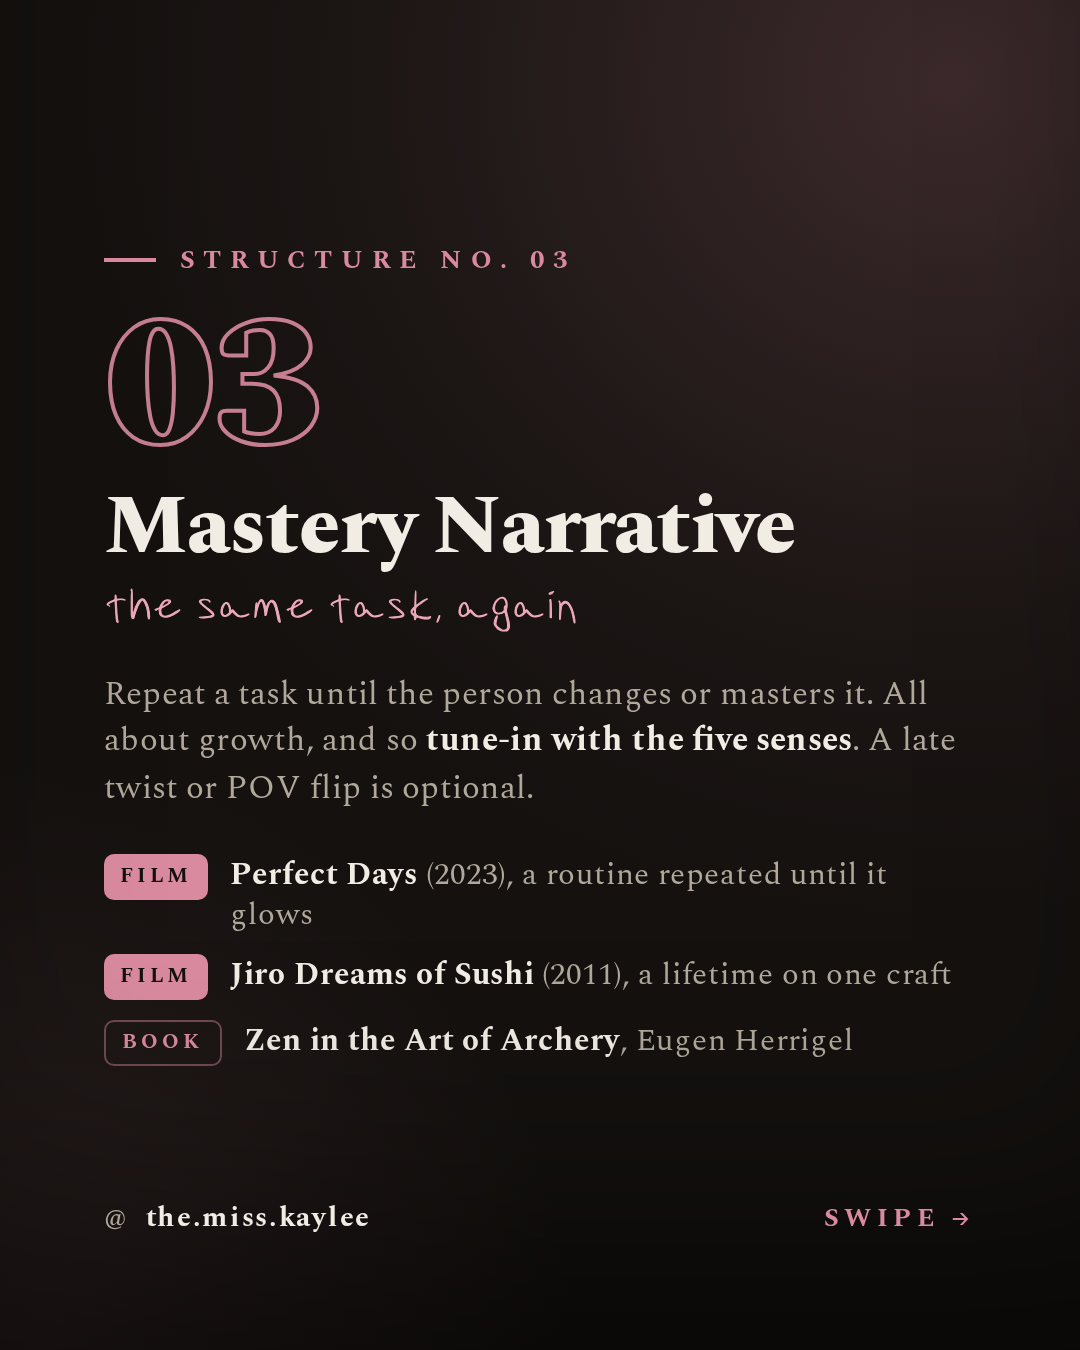
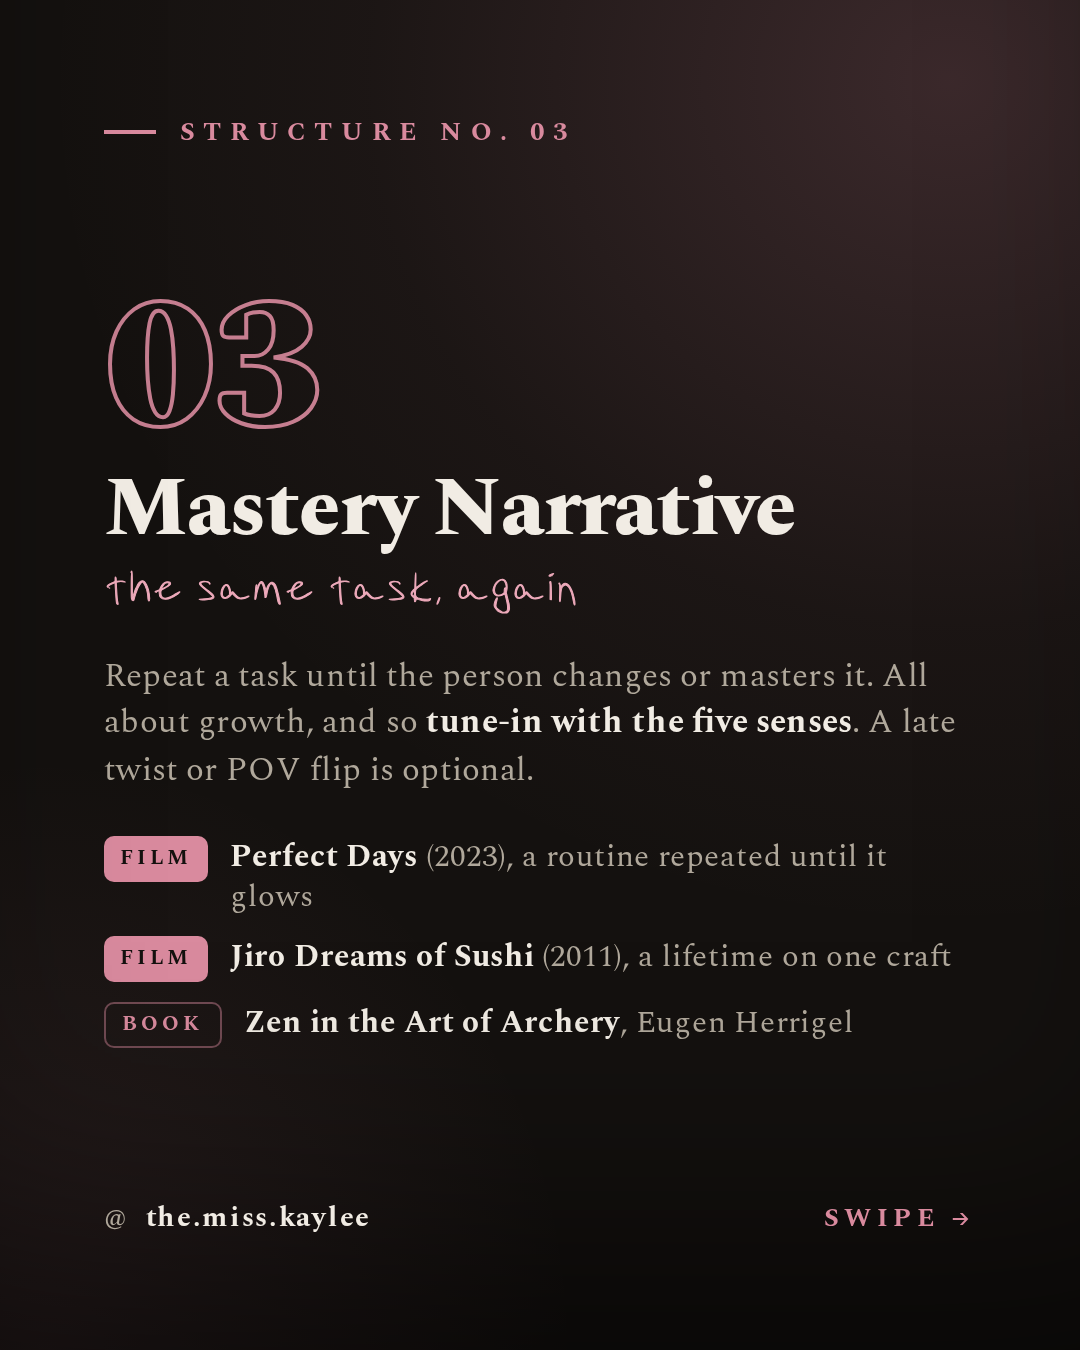
Carousel: align framing across slides + cover subline
- Cover subline -> 'Here are three structures / that center change over conflict' (break after 'structures')
- Pin kicker to fixed top and footer to fixed bottom on every slide so the
  frame lines up across the carousel; body stays centered between them

diff --git a/scripts/ig-carousel/slide-01-cover.html b/scripts/ig-carousel/slide-01-cover.html
@@ -2,11 +2,11 @@
 <link rel="stylesheet" href="carousel.css"></head>
 <body>
 <div class="slide cover" data-ref="slide-cover">
+  <div class="kicker">Storytelling &nbsp;·&nbsp; Part 1</div>
   <div class="main">
-    <div class="kicker">Storytelling &nbsp;·&nbsp; Part 1</div>
     <div class="headline">You don't <span class="em">need</span> conflict to tell your story</div>
     <span class="flourish">what NYU<br>didn't teach me</span>
-    <p class="sub">Three structures centered on <b>change over conflict.</b></p>
+    <p class="sub">Here are three structures<br>that center <b>change over conflict.</b></p>
   </div>
   <div class="footer">
     <span class="handle">@<b>the.miss.kaylee</b></span>

diff --git a/scripts/ig-carousel/carousel.css b/scripts/ig-carousel/carousel.css
@@ -82,7 +82,7 @@ html,body{background:#2a2622;-webkit-font-smoothing:antialiased;}
 .hot{color:var(--rose);font-weight:600;}
 .structure .num{font-family:'Spectral';font-weight:800;font-size:94px;line-height:0.78;
   color:transparent;-webkit-text-stroke:2px var(--accent);letter-spacing:-0.02em;opacity:0.9;
-  margin-top:18px;}
+  margin-top:0;}
 .structure .name{font-family:'Spectral';font-weight:800;font-size:41px;line-height:1.0;
   letter-spacing:-0.01em;color:var(--ink);margin-top:12px;}
 .structure .tag{font-family:'Kaylee Script',cursive;color:var(--rose);

diff --git a/scripts/ig-carousel/slide-04-mastery.html b/scripts/ig-carousel/slide-04-mastery.html
@@ -2,8 +2,8 @@
 <link rel="stylesheet" href="carousel.css"></head>
 <body>
 <div class="slide structure" data-ref="slide-mastery">
+  <div class="kicker">Structure No. 03</div>
   <div class="main">
-    <div class="kicker">Structure No. 03</div>
     <div class="num">03</div>
     <div class="name">Mastery Narrative</div>
     <div class="tag">the same task, again</div>

diff --git a/scripts/ig-carousel/slide-03-sliceoflife.html b/scripts/ig-carousel/slide-03-sliceoflife.html
@@ -2,8 +2,8 @@
 <link rel="stylesheet" href="carousel.css"></head>
 <body>
 <div class="slide structure" data-ref="slide-sliceoflife">
+  <div class="kicker">Structure No. 02</div>
   <div class="main">
-    <div class="kicker">Structure No. 02</div>
     <div class="num">02</div>
     <div class="name">Slice of Life</div>
     <div class="tag">sit in the moment</div>

diff --git a/scripts/ig-carousel/slide-02-daisychain.html b/scripts/ig-carousel/slide-02-daisychain.html
@@ -2,8 +2,8 @@
 <link rel="stylesheet" href="carousel.css"></head>
 <body>
 <div class="slide structure" data-ref="slide-daisychain">
+  <div class="kicker">Structure No. 01</div>
   <div class="main">
-    <div class="kicker">Structure No. 01</div>
     <div class="num">01</div>
     <div class="name">Daisy Chain</div>
     <div class="tag">follow the thread</div>
